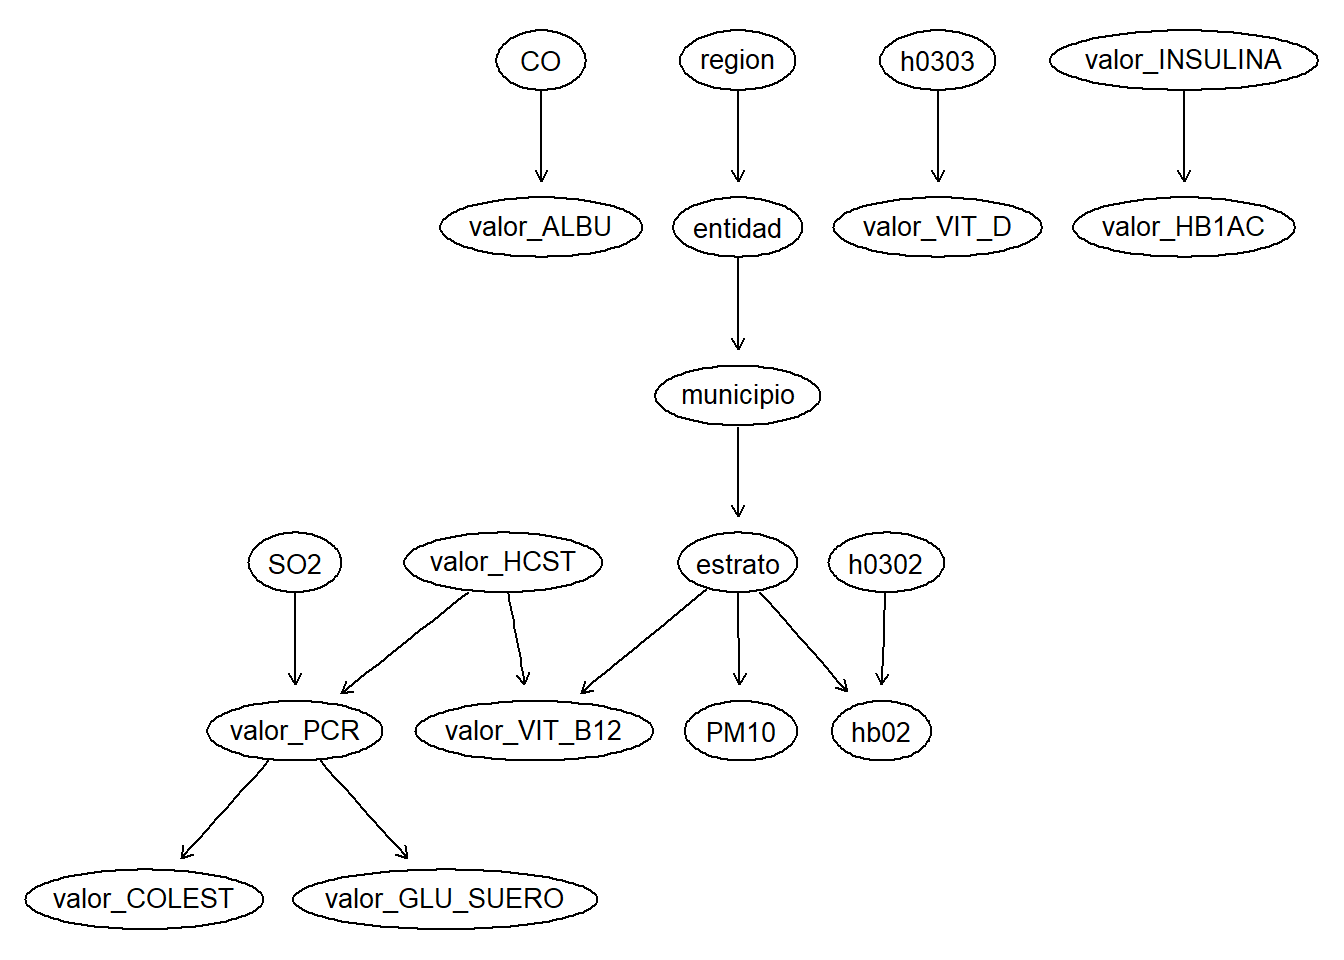
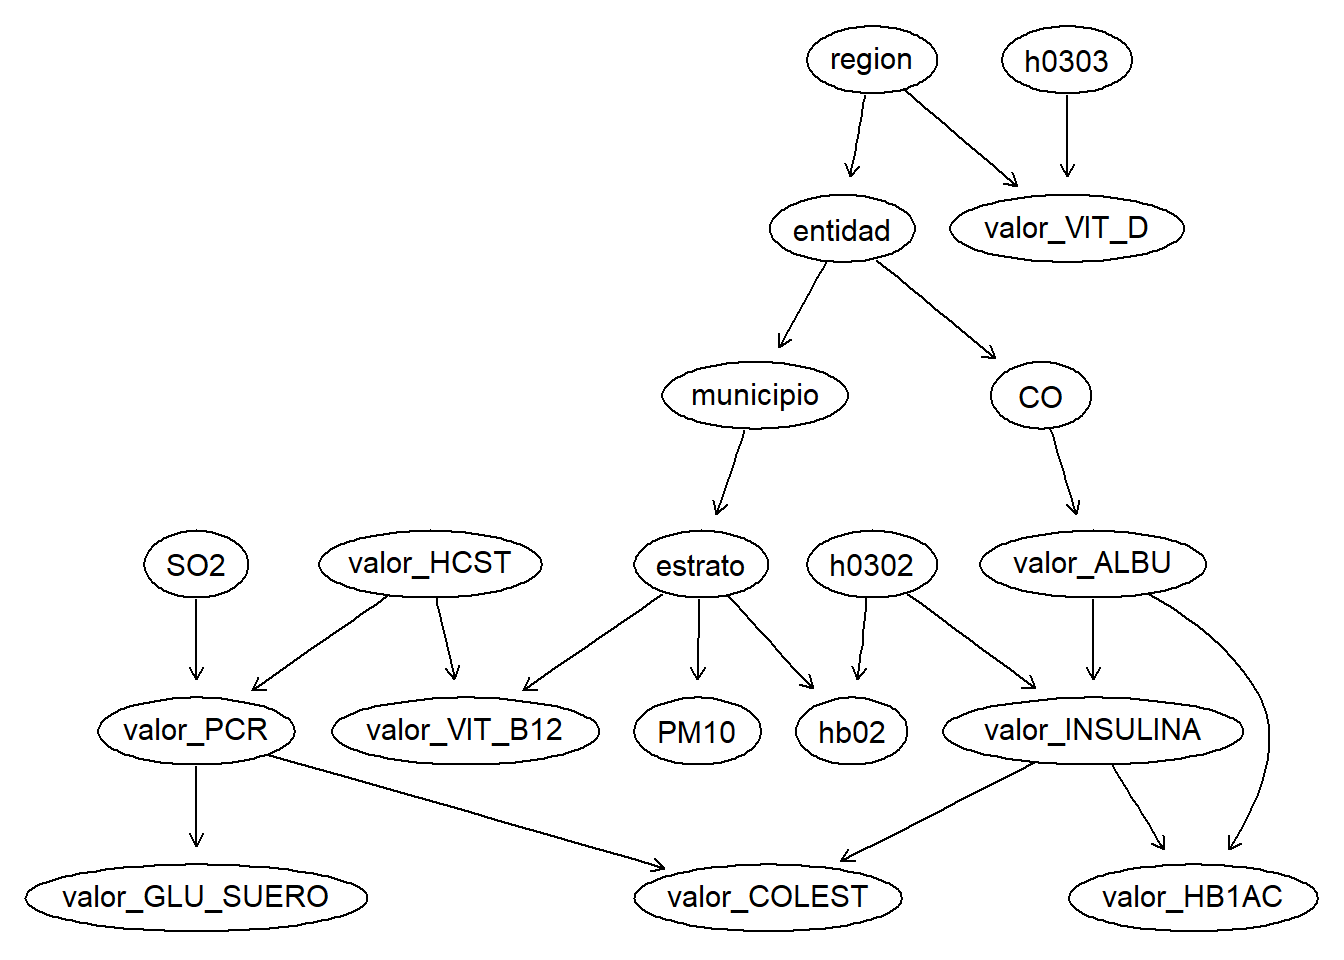
Corrección de DAG1

diff --git a/Notebooks/DAGs propuestas.html b/Notebooks/DAGs propuestas.html
@@ -134,7 +134,7 @@ pre > code.sourceCode > span > a:first-child::before { text-decoration: underlin
 </div>
 <p>DAG 1: Propuesta por el nutriólogo y especialista en ciencias médicas Alberto Bricio. Sexo tiene que ver con Hb (menor en mujeres). Lo rural se asocia con menores Hb y puede que con PM10 (?) Pensaría que mientras más CO, menos Albúmina Más insulina con HbA1c y las demás del perfíl de lípidos. menos Vitamina D mientras más edad. más prot C reactiva con SO2 (?), pero si con más Colesterol y glucosa Puede que más B12 en área urbana. Más Homocisteína con menos B12 y más Prot&nbsp;C&nbsp;reactiva.</p>
 <div class="cell">
-<div class="sourceCode cell-code" id="cb9"><pre class="sourceCode r code-with-copy"><code class="sourceCode r"><span id="cb9-1"><a href="#cb9-1" aria-hidden="true" tabindex="-1"></a>dag1 <span class="ot">=</span> <span class="fu">model2network</span>(<span class="st">"[h0302][h0303][region][CO][SO2][valor_HCST][valor_INSULINA][estrato|municipio][municipio|entidad][entidad|region][valor_PCR|valor_HCST:SO2][valor_VIT_B12|valor_HCST:estrato][valor_GLU_SUERO|valor_PCR][valor_COLEST|valor_PCR][valor_VIT_D|h0303][valor_HB1AC|valor_INSULINA][valor_ALBU|CO][PM10|estrato][hb02|estrato:h0302]"</span>) </span></code><button title="Copy to Clipboard" class="code-copy-button"><i class="bi"></i></button></pre></div>
+<div class="sourceCode cell-code" id="cb9"><pre class="sourceCode r code-with-copy"><code class="sourceCode r"><span id="cb9-1"><a href="#cb9-1" aria-hidden="true" tabindex="-1"></a>dag1 <span class="ot">=</span> <span class="fu">model2network</span>(<span class="st">"[h0302][h0303][region][CO|entidad][SO2][valor_HCST][valor_INSULINA|h0302:valor_ALBU][estrato|municipio][municipio|entidad][entidad|region][valor_PCR|valor_HCST:SO2][valor_VIT_B12|valor_HCST:estrato][valor_GLU_SUERO|valor_PCR][valor_COLEST|valor_PCR:valor_INSULINA][valor_VIT_D|h0303:region][valor_HB1AC|valor_INSULINA:valor_ALBU][valor_ALBU|CO][PM10|estrato][hb02|estrato:h0302]"</span>) </span></code><button title="Copy to Clipboard" class="code-copy-button"><i class="bi"></i></button></pre></div>
 </div>
 <p>aún tengo duda en esto, estoy por confirmar: “más prot C reactiva con SO2 (?), pero si con más Colesterol y glucosa”, sería como que el SO2, Colesterol y Glucosa los 3 dependen de la proteína c reactiva? o de dónde a dónde va la dependencia? También con ésta: “Más Homocisteína con menos B12 y más Prot&nbsp;C&nbsp;reactiva.” Sería que la B12 y prto C reactiva dependen de la&nbsp;Homocisteína? También falta agregarle la relación de la insulina y lípidos</p>
 <div class="cell">
@@ -144,18 +144,20 @@ pre > code.sourceCode > span > a:first-child::before { text-decoration: underlin
   Random/Generated Bayesian network
 
   model:
-   [CO][h0302][h0303][region][SO2][valor_HCST][valor_INSULINA][entidad|region]
-   [valor_ALBU|CO][valor_HB1AC|valor_INSULINA][valor_PCR|SO2:valor_HCST]
-   [valor_VIT_D|h0303][municipio|entidad][valor_COLEST|valor_PCR]
-   [valor_GLU_SUERO|valor_PCR][estrato|municipio][hb02|estrato:h0302]
-   [PM10|estrato][valor_VIT_B12|estrato:valor_HCST]
+   [h0302][h0303][region][SO2][valor_HCST][entidad|region]
+   [valor_PCR|SO2:valor_HCST][valor_VIT_D|h0303:region][CO|entidad]
+   [municipio|entidad][valor_GLU_SUERO|valor_PCR][estrato|municipio]
+   [valor_ALBU|CO][hb02|estrato:h0302][PM10|estrato]
+   [valor_INSULINA|h0302:valor_ALBU][valor_VIT_B12|estrato:valor_HCST]
+   [valor_COLEST|valor_INSULINA:valor_PCR]
+   [valor_HB1AC|valor_ALBU:valor_INSULINA]
   nodes:                                 19 
-  arcs:                                  15 
+  arcs:                                  21 
     undirected arcs:                     0 
-    directed arcs:                       15 
-  average markov blanket size:           1.89 
-  average neighbourhood size:            1.58 
-  average branching factor:              0.79 
+    directed arcs:                       21 
+  average markov blanket size:           2.84 
+  average neighbourhood size:            2.21 
+  average branching factor:              1.11 
 
   generation algorithm:                  Empty </code></pre>
 </div>
